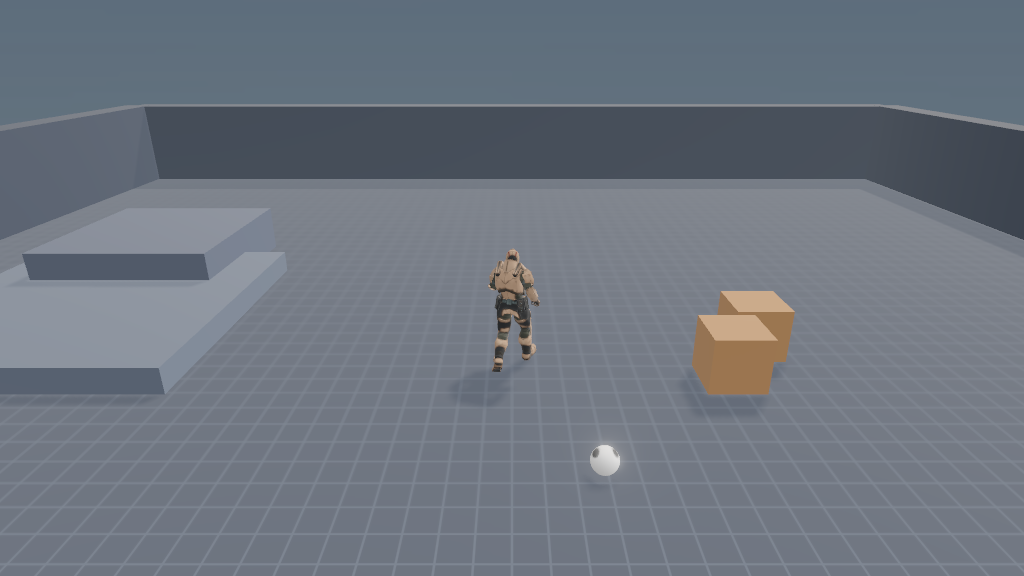
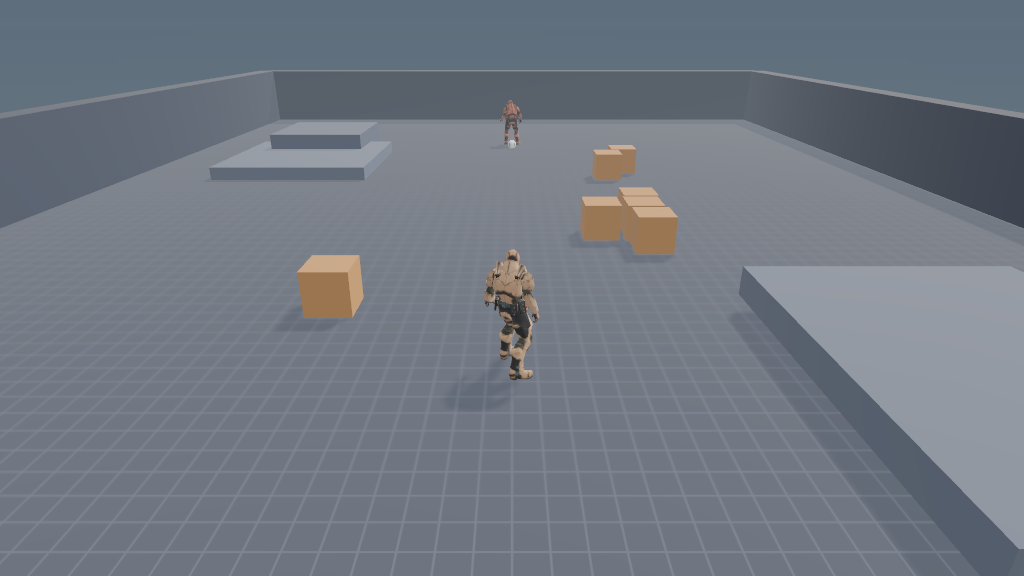
AI opponent: native steering behaviours contesting the ball (physics scene)
Add engine/steering.js — classic Reynolds behaviours (seek/flee/arrive/pursue/
wander) as dependency-free planar functions, plus toMoveInput() to drive a
CharacterController from a desired velocity. Mirrors GameBlocks' behaviour blocks.

Physique scene now has a red-tinted AI opponent (SkeletonUtils clone) that runs
the SAME CharacterController + a physics capsule: it intercepts the ball's
predicted position, and when it has it, shields/boots it away from the player.
Two kinematic capsules collide, so player and opponent bump each other.

Verified headless: AI closes to 0.5 m of the ball and displaces it ~9 m while
the idle player stays put; steering self-test 10/10.

- scripts/verify-steering.mjs; steering.js copied to starter + soldier-volley
  engines. reference/24-ai-steering.md; SKILL.md + README + showcase README +
  NOTES.md updated (bonus AI done; roadmap #3 interop noted in progress).

Claude-Session: https://claude.ai/code/session_01Wt9EADKvaju1kbTzmg8tYk

diff --git a/examples/showcase/src/scenes/Physics.js b/examples/showcase/src/scenes/Physics.js
@@ -1,10 +1,12 @@
 import * as THREE from 'three/webgpu';
 import { GLTFLoader } from 'three/addons/loaders/GLTFLoader.js';
+import { clone as skeletonClone } from 'three/addons/utils/SkeletonUtils.js';
 import { CharacterController } from '../engine/character-controller.js';
 import { ThirdPersonCamera } from '../engine/third-person-camera.js';
 import { Input } from '../engine/input.js';
 import { WORLD } from '../engine/world-basis.js';
 import { Physics } from '../engine/physics.js';
+import { pursue, seek, toMoveInput } from '../engine/steering.js';
 
 // Physics playground (roadmap #2) — real Rapier collisions. Drive the Soldier: he can't walk through the
 // walls/crates, climbs the ramp and steps, PUSHES the crates around, and kicks the ball (dynamic rigid
@@ -64,27 +66,54 @@ export class PhysicsScene {
     const btex = new THREE.CanvasTexture(bc); btex.colorSpace = THREE.SRGBColorSpace;
     const bmat = new THREE.MeshStandardNodeMaterial({ map: btex, roughness: 0.5 });
     const ballMesh = new THREE.Mesh(bgeo, bmat); ballMesh.castShadow = true; this.scene.add(ballMesh); this.disposables.push(bgeo, bmat, btex);
-    this.ballBody = this.phys.addDynamicBall([2, R, 1], R, { density: 22, restitution: 0.55 }); // ~football mass
+    this.ballBody = this.phys.addDynamicBall([0, R, 0], R, { density: 22, restitution: 0.55 }); // ~football mass, centre
     this.dyn.push({ mesh: ballMesh, body: this.ballBody });
 
-    // character
+    // player + AI opponent (cloned rig, red tint) — both are physics-collided capsule characters
     const gltf = await new GLTFLoader().loadAsync('Soldier.glb');
-    const model = gltf.scene; model.traverse((o) => { if (o.isMesh) { o.castShadow = true; o.frustumCulled = false; } });
+    const player = this._makeCharacter(gltf.scene, gltf.animations, [-8, 0, 0]);
+    this.ctrl = player.ctrl; this.model = player.model; this.ctrl.faceInstant(1, 0);
+    const opp = this._makeCharacter(skeletonClone(gltf.scene), gltf.animations, [8, 0, 0], 0xd23b3b);
+    this.aiCtrl = opp.ctrl; this.aiCtrl.runSpeed = 5.0; this.aiCtrl.faceInstant(-1, 0);
+    return true;
+  }
+
+  // build a physics-collided capsule character; optional `tint` recolours the rig (the AI opponent)
+  _makeCharacter(model, anims, start, tint) {
+    model.traverse((o) => {
+      if (!o.isMesh) return; o.castShadow = true; o.frustumCulled = false;
+      if (tint) { o.material = o.material.clone(); o.material.color = o.material.color.clone().lerp(new THREE.Color(tint), 0.55); this.disposables.push(o.material); }
+    });
     const box = new THREE.Box3().setFromObject(model); model.scale.setScalar(1.8 / box.getSize(new THREE.Vector3()).y);
-    const b2 = new THREE.Box3().setFromObject(model); const START = [-8, 0, 0];
-    model.position.set(START[0], -b2.min.y, START[2]); this.scene.add(model); this.model = model;
+    const b2 = new THREE.Box3().setFromObject(model); model.position.set(start[0], -b2.min.y, start[2]); this.scene.add(model);
     const mixer = new THREE.AnimationMixer(model);
-    const run = gltf.animations.find((a) => /run/i.test(a.name)), idle = gltf.animations.find((a) => /idle/i.test(a.name));
+    const run = anims.find((a) => /run/i.test(a.name)), idle = anims.find((a) => /idle/i.test(a.name));
     const bone = (re) => { let f = null; model.traverse((o) => { if (o.isBone && re.test(o.name) && !f) f = o; }); return f; };
     const legs = [
       { up: bone(/LeftUpLeg/i), knee: bone(/LeftLeg$/i), foot: bone(/LeftFoot/i) },
       { up: bone(/RightUpLeg/i), knee: bone(/RightLeg$/i), foot: bone(/RightFoot/i) },
     ];
-    this.char = this.phys.addCharacter(START, { radius: 0.32, height: 1.8 });
-    this.ctrl = new CharacterController(model, { mixer, runClip: run, idleClip: idle, legs, stride: 2.6, runSpeed: 5.5, forwardLocal: new THREE.Vector3(0, 0, -1) });
-    this.ctrl.collide = (dx, dy, dz) => this.char.move(dx, dy, dz);
-    this.ctrl.faceInstant(1, 0);
-    return true;
+    const char = this.phys.addCharacter(start, { radius: 0.32, height: 1.8 });
+    const ctrl = new CharacterController(model, { mixer, runClip: run, idleClip: idle, legs, stride: 2.6, runSpeed: 5.5, forwardLocal: new THREE.Vector3(0, 0, -1) });
+    ctrl.collide = (dx, dy, dz) => char.move(dx, dy, dz);
+    return { model, ctrl, char };
+  }
+
+  // opponent AI: chase the ball (intercept its predicted position); when on it, shield/boot it away from the player
+  _ai(dt) {
+    const ai = this.aiCtrl, p = this.ctrl, b = this.ballBody.translation(), bv = this.ballBody.linvel();
+    const aiPos = [ai.pos.x, ai.pos.z], ball = [b.x, b.z], player = [p.pos.x, p.pos.z];
+    const dBall = Math.hypot(ball[0] - aiPos[0], ball[1] - aiPos[1]);
+    let vel;
+    if (dBall > 1.0) { vel = pursue(aiPos, ball, [bv.x, bv.z], ai.runSpeed, 0.35); }        // intercept
+    else {                                                                                  // has it → clear away from player
+      const away = [ball[0] - player[0], ball[1] - player[1]]; const l = Math.hypot(away[0], away[1]) || 1; away[0] /= l; away[1] /= l;
+      vel = seek(aiPos, [ball[0] + away[0] * 2.5, ball[1] + away[1] * 2.5], ai.runSpeed);
+      this._kickCd = (this._kickCd || 0) - dt;
+      if (this._kickCd <= 0) { this.ballBody.setLinvel({ x: away[0] * 9, y: 3, z: away[1] * 9 }, true); this._kickCd = 1.4; }
+    }
+    const [mx, mz] = toMoveInput(vel, ai.runSpeed);
+    ai.setMoveWorld(mx, mz); ai.update(dt);
   }
 
   camera(cam, controls) {
@@ -116,6 +145,7 @@ export class PhysicsScene {
     if (near && this.input.pressed('shoot')) this.ballBody.setLinvel({ x: pf.x * 12, y: 4.5, z: pf.z * 12 }, true);
     else if (near && this.input.pressed('cross')) this.ballBody.setLinvel({ x: pf.x * 7, y: 2.6, z: pf.z * 7 }, true);
     this.input.endFrame();
+    if (this.aiCtrl) this._ai(dt);        // opponent contests the ball (queues its kinematic move too)
 
     this.phys.step();
     for (const { body, mesh } of this.dyn) this.phys.sync(body, mesh);

diff --git a/examples/showcase/src/engine/steering.js b/examples/showcase/src/engine/steering.js
@@ -1,0 +1,32 @@
+// Steering — classic Reynolds steering behaviours for simple, readable AI (chase, flee, intercept,
+// wander). Dependency-free: all vectors are planar [x, z], speeds/distances in world units. Feed the
+// returned desired velocity to a CharacterController via toMoveInput() → setMoveWorld(). Node-testable
+// (scripts/verify-steering.mjs). Mirrors the behaviour blocks in GameBlocks; pairs with reference/22–23.
+const sub = (a, b) => [a[0] - b[0], a[1] - b[1]];
+const add = (a, b) => [a[0] + b[0], a[1] + b[1]];
+const scale = (a, s) => [a[0] * s, a[1] * s];
+const len = (a) => Math.hypot(a[0], a[1]);
+const norm = (a) => { const l = len(a) || 1; return [a[0] / l, a[1] / l]; };
+
+/** Desired velocity straight at the target, at full speed. */
+export function seek(pos, target, maxSpeed) { return scale(norm(sub(target, pos)), maxSpeed); }
+/** Desired velocity directly away from the target. */
+export function flee(pos, target, maxSpeed) { return scale(norm(sub(pos, target)), maxSpeed); }
+/** Seek that eases down inside `slowRadius` so the agent stops on the target instead of orbiting it. */
+export function arrive(pos, target, maxSpeed, slowRadius = 2) {
+  const to = sub(target, pos), d = len(to); if (d < 1e-4) return [0, 0];
+  return scale(scale(to, 1 / d), d < slowRadius ? maxSpeed * d / slowRadius : maxSpeed);
+}
+/** Intercept a moving target by seeking its predicted position `predict` seconds ahead. */
+export function pursue(pos, targetPos, targetVel, maxSpeed, predict = 0.4) {
+  return seek(pos, add(targetPos, scale(targetVel, predict)), maxSpeed);
+}
+/** Meandering wander around a base heading; vary `t` per frame and by agent for variety. */
+export function wander(baseHeading, t, maxSpeed, jitter = 1) {
+  const a = baseHeading + Math.sin(t * jitter) * 0.9; return scale([Math.sin(a), Math.cos(a)], maxSpeed);
+}
+/** Convert a desired velocity into a CharacterController move input: unit direction × magnitude 0..1. */
+export function toMoveInput(vel, maxSpeed) {
+  const l = len(vel); if (l < 1e-4) return [0, 0];
+  const m = Math.min(1, l / maxSpeed); return [vel[0] / l * m, vel[1] / l * m];
+}

diff --git a/examples/soldier-volley/src/engine/steering.js b/examples/soldier-volley/src/engine/steering.js
@@ -1,0 +1,32 @@
+// Steering — classic Reynolds steering behaviours for simple, readable AI (chase, flee, intercept,
+// wander). Dependency-free: all vectors are planar [x, z], speeds/distances in world units. Feed the
+// returned desired velocity to a CharacterController via toMoveInput() → setMoveWorld(). Node-testable
+// (scripts/verify-steering.mjs). Mirrors the behaviour blocks in GameBlocks; pairs with reference/22–23.
+const sub = (a, b) => [a[0] - b[0], a[1] - b[1]];
+const add = (a, b) => [a[0] + b[0], a[1] + b[1]];
+const scale = (a, s) => [a[0] * s, a[1] * s];
+const len = (a) => Math.hypot(a[0], a[1]);
+const norm = (a) => { const l = len(a) || 1; return [a[0] / l, a[1] / l]; };
+
+/** Desired velocity straight at the target, at full speed. */
+export function seek(pos, target, maxSpeed) { return scale(norm(sub(target, pos)), maxSpeed); }
+/** Desired velocity directly away from the target. */
+export function flee(pos, target, maxSpeed) { return scale(norm(sub(pos, target)), maxSpeed); }
+/** Seek that eases down inside `slowRadius` so the agent stops on the target instead of orbiting it. */
+export function arrive(pos, target, maxSpeed, slowRadius = 2) {
+  const to = sub(target, pos), d = len(to); if (d < 1e-4) return [0, 0];
+  return scale(scale(to, 1 / d), d < slowRadius ? maxSpeed * d / slowRadius : maxSpeed);
+}
+/** Intercept a moving target by seeking its predicted position `predict` seconds ahead. */
+export function pursue(pos, targetPos, targetVel, maxSpeed, predict = 0.4) {
+  return seek(pos, add(targetPos, scale(targetVel, predict)), maxSpeed);
+}
+/** Meandering wander around a base heading; vary `t` per frame and by agent for variety. */
+export function wander(baseHeading, t, maxSpeed, jitter = 1) {
+  const a = baseHeading + Math.sin(t * jitter) * 0.9; return scale([Math.sin(a), Math.cos(a)], maxSpeed);
+}
+/** Convert a desired velocity into a CharacterController move input: unit direction × magnitude 0..1. */
+export function toMoveInput(vel, maxSpeed) {
+  const l = len(vel); if (l < 1e-4) return [0, 0];
+  const m = Math.min(1, l / maxSpeed); return [vel[0] / l * m, vel[1] / l * m];
+}

diff --git a/skills/threejs-aaa/assets/starter/src/engine/steering.js b/skills/threejs-aaa/assets/starter/src/engine/steering.js
@@ -1,0 +1,32 @@
+// Steering — classic Reynolds steering behaviours for simple, readable AI (chase, flee, intercept,
+// wander). Dependency-free: all vectors are planar [x, z], speeds/distances in world units. Feed the
+// returned desired velocity to a CharacterController via toMoveInput() → setMoveWorld(). Node-testable
+// (scripts/verify-steering.mjs). Mirrors the behaviour blocks in GameBlocks; pairs with reference/22–23.
+const sub = (a, b) => [a[0] - b[0], a[1] - b[1]];
+const add = (a, b) => [a[0] + b[0], a[1] + b[1]];
+const scale = (a, s) => [a[0] * s, a[1] * s];
+const len = (a) => Math.hypot(a[0], a[1]);
+const norm = (a) => { const l = len(a) || 1; return [a[0] / l, a[1] / l]; };
+
+/** Desired velocity straight at the target, at full speed. */
+export function seek(pos, target, maxSpeed) { return scale(norm(sub(target, pos)), maxSpeed); }
+/** Desired velocity directly away from the target. */
+export function flee(pos, target, maxSpeed) { return scale(norm(sub(pos, target)), maxSpeed); }
+/** Seek that eases down inside `slowRadius` so the agent stops on the target instead of orbiting it. */
+export function arrive(pos, target, maxSpeed, slowRadius = 2) {
+  const to = sub(target, pos), d = len(to); if (d < 1e-4) return [0, 0];
+  return scale(scale(to, 1 / d), d < slowRadius ? maxSpeed * d / slowRadius : maxSpeed);
+}
+/** Intercept a moving target by seeking its predicted position `predict` seconds ahead. */
+export function pursue(pos, targetPos, targetVel, maxSpeed, predict = 0.4) {
+  return seek(pos, add(targetPos, scale(targetVel, predict)), maxSpeed);
+}
+/** Meandering wander around a base heading; vary `t` per frame and by agent for variety. */
+export function wander(baseHeading, t, maxSpeed, jitter = 1) {
+  const a = baseHeading + Math.sin(t * jitter) * 0.9; return scale([Math.sin(a), Math.cos(a)], maxSpeed);
+}
+/** Convert a desired velocity into a CharacterController move input: unit direction × magnitude 0..1. */
+export function toMoveInput(vel, maxSpeed) {
+  const l = len(vel); if (l < 1e-4) return [0, 0];
+  const m = Math.min(1, l / maxSpeed); return [vel[0] / l * m, vel[1] / l * m];
+}

diff --git a/examples/showcase/index.html b/examples/showcase/index.html
@@ -67,9 +67,9 @@
         <div class="body">
           <h2>Physique — Rapier</h2>
           <p>Collisions réelles : le Soldat ne traverse pas les murs/caisses, monte la rampe et les
-             marches, <b>pousse</b> les caisses et <b>frappe</b> le ballon (corps rigides dynamiques).
-             Personnage capsule cinématique via le character controller de Rapier.</p>
-          <div class="tags"><span class="tag">Rapier</span><span class="tag">Collisions</span><span class="tag">Corps rigides</span><span class="tag">Character controller</span></div>
+             marches, <b>pousse</b> les caisses et <b>frappe</b> le ballon (corps rigides dynamiques). Un
+             <b>adversaire IA</b> (steering) te dispute le ballon. Capsule cinématique via Rapier.</p>
+          <div class="tags"><span class="tag">Rapier</span><span class="tag">Collisions</span><span class="tag">Corps rigides</span><span class="tag">IA · steering</span></div>
           <div class="open">Jouer →</div>
         </div>
       </a>

diff --git a/examples/showcase/physics.html b/examples/showcase/physics.html
@@ -27,7 +27,7 @@
       <b>Physique — Rapier</b><br>
       <kbd>WASD</kbd>/<kbd>ZQSD</kbd>/<kbd>↑↓←→</kbd> courir · <b>souris</b> regarder · <b>molette</b> zoom<br>
       <kbd>Shift</kbd> sprint · <kbd>J</kbd> saut · <kbd>Espace</kbd> frapper le ballon · <kbd>E</kbd> pousser doux<br>
-      Pousse les caisses, monte la rampe, tape dans le ballon. 🎮 manette &amp; 📱 tactile OK.
+      Un <b style="color:#e57373">adversaire IA</b> te dispute le ballon. Pousse les caisses, monte la rampe. 🎮📱 OK.
     </div>
     <div id="loading">CHARGEMENT DU MOTEUR PHYSIQUE…</div>
     <script type="module" src="/src/entry-physics.js"></script>

diff --git a/skills/threejs-aaa/reference/24-ai-steering.md b/skills/threejs-aaa/reference/24-ai-steering.md
@@ -1,0 +1,47 @@
+# AI opponents — steering behaviours
+
+Simple, readable NPC/opponent movement without a planner: `engine/steering.js` provides the classic
+Reynolds behaviours (seek / flee / arrive / pursue / wander) as pure functions on planar `[x, z]` vectors.
+Compose them into a desired velocity, convert to a controller input, and drive the SAME
+`CharacterController` you use for the player — so the AI gets correct facing, no foot-skate, and (with
+`.collide`) physics collisions for free. Dependency-free → node-testable (`scripts/verify-steering.mjs`).
+Mirrors the behaviour blocks in [GameBlocks](https://github.com/xt4d/GameBlocks); pairs with reference/22–23.
+
+## Usage — an opponent that contests the ball
+
+```js
+import { pursue, seek, toMoveInput } from './engine/steering.js';
+
+// build the opponent exactly like the player (own CharacterController + physics character), then per frame:
+const aiPos = [ai.pos.x, ai.pos.z], ball = [b.x, b.z], player = [p.pos.x, p.pos.z];
+let vel;
+if (dist(aiPos, ball) > 1.0) {
+  vel = pursue(aiPos, ball, ballVelXZ, ai.runSpeed, 0.35);        // intercept the ball's PREDICTED position
+} else {
+  const away = normalize(sub(ball, player));                      // has the ball → shield/clear it from the player
+  vel = seek(aiPos, add(ball, scale(away, 2.5)), ai.runSpeed);
+  if (kickReady) ball.setLinvel({ x: away[0]*9, y: 3, z: away[1]*9 }, true);
+}
+const [mx, mz] = toMoveInput(vel, ai.runSpeed);                   // desired velocity → move input (dir × 0..1)
+ai.setMoveWorld(mx, mz); ai.update(dt);                           // same controller as the player
+```
+
+Playable demo: `examples/showcase` → **Physique** (a red-tinted opponent chases and boots the ball away;
+both are physics capsules, so they also bump each other). Verified headless: the AI closes to 0.5 m of the
+ball and displaces it ~9 m while the idle player doesn't move.
+
+## The behaviours
+- **seek(pos, target, maxSpeed)** — full-speed straight at a point.
+- **flee(pos, target, maxSpeed)** — full-speed away (evade).
+- **arrive(pos, target, maxSpeed, slowRadius)** — seek that eases to a stop on the target (no orbiting).
+- **pursue(pos, targetPos, targetVel, maxSpeed, predict)** — seek the target's future position (intercept).
+- **wander(baseHeading, t, maxSpeed, jitter)** — meandering idle patrol.
+- **toMoveInput(vel, maxSpeed)** — desired velocity → `CharacterController.setMoveWorld` input.
+
+## Notes
+- **Order per frame** with physics: drive the player, then each AI (`ai.update(dt)` queues its kinematic
+  move), then a single `phys.step()`, then sync meshes. Two kinematic capsules collide, so opponents block
+  each other and the player.
+- Blend behaviours by summing their velocities (e.g. `pursue(ball) + flee(nearestFoe)*0.5`), then clamp with
+  `toMoveInput`. For routes/obstacles, layer waypoints or a grid path on top (a natural next block).
+- Give opponents a slightly lower `runSpeed` (or reaction delay) so the player can win.

diff --git a/README.md b/README.md
@@ -31,6 +31,7 @@ threejs-aaa/ (the skill)
 │   ├── 21-locomotion-no-footskate.md  moving characters that don't slide: cadence-sync + foot-lock IK + follow camera
 │   ├── 22-character-controller.md  controls: input→facing (no moonwalk) + run/idle + no-slide, camera-relative, gamepad
 │   ├── 23-physics-rapier.md    physics & collisions (Rapier): kinematic character, static/dynamic bodies, kick/push
+│   ├── 24-ai-steering.md       AI opponents: steering (seek/flee/arrive/pursue/wander) driving the CharacterController
 │   ├── 15-interaction-alignment.md  character↔object interaction + correctness verification
 │   ├── 18-scene-correctness.md  REQUIRED spatial rules: door-in-wall, no-clip, rests-on, ball-at-foot
 │   ├── 19-correctness-catalogue.md  exhaustiveness generator + full rule catalogue by relationship
@@ -47,6 +48,7 @@ threejs-aaa/ (the skill)
 │   ├── verify-temporal.mjs    validate animation-time correctness (skate/detach/pops/loop/phase)
 │   ├── verify-locomotion.mjs  self-test the no-foot-skate cadence math (matchCadence/estimateStride)
 │   ├── verify-worldbasis.mjs  self-test the gameplay-direction ↔ world-axis transforms (facing/heading/no-moonwalk)
+│   ├── verify-steering.mjs    self-test the AI steering behaviours (seek/flee/arrive/pursue/wander)
 │   ├── capture.mjs           headless screenshot + perf snapshot (the visual-QA loop)
 │   └── gen-asset.mjs         (optional/paid) AI text/image-to-3D → game-ready GLB (Meshy)
 └── assets/starter/           a complete, runnable WebGPU + IBL + post-processing project
@@ -95,6 +97,10 @@ examples/
   snap-to-ground, pushes dynamic bodies) that plugs into `CharacterController.collide`. The character
   can't walk through walls, climbs ramps/steps, pushes crates, and kicks the ball. Playable in the live
   gallery (**Physique**). Verified headless: walls block, crates displace, kick launches ~12 m/s.
+- **AI opponents (native, steering)** — `engine/steering.js` (seek/flee/arrive/pursue/wander) drives NPCs
+  through the *same* `CharacterController` as the player, so they face where they move, don't foot-skate,
+  and collide via physics. The **Physique** demo has an AI opponent that intercepts and boots the ball
+  away; verified headless (closes to 0.5 m, displaces the ball ~9 m). Behaviours self-test with zero deps.
 - **Scene correctness enforcement (the skill's job, not the user's)** — a tested spatial validator
   that catches placement bugs the way an AAA reviewer would: a door must sit in the wall opening, a
   chair must face the desk, a seated character's hips on the seat, furniture must not clip walls, a

diff --git a/skills/threejs-aaa/SKILL.md b/skills/threejs-aaa/SKILL.md
@@ -43,6 +43,7 @@ post-processing, and the Mixamo → glTF character pipeline.
 | **Locomotion (REQUIRED for moving characters): no foot-skate — cadence-sync + foot-lock IK + follow camera** | [reference/21-locomotion-no-footskate.md](reference/21-locomotion-no-footskate.md) |
 | **Character controller (controls): input→facing (no moonwalk)+run/idle+no-slide, camera-relative, gamepad** | [reference/22-character-controller.md](reference/22-character-controller.md) |
 | **Physics & collisions (Rapier): walls/crates/steps, kinematic character, dynamic bodies, kick/push** | [reference/23-physics-rapier.md](reference/23-physics-rapier.md) |
+| **AI opponents: steering (seek/flee/arrive/pursue/wander) driving the same CharacterController** | [reference/24-ai-steering.md](reference/24-ai-steering.md) |
 | Character↔object interaction + correctness verification (orientation, reach…) | [reference/15-interaction-alignment.md](reference/15-interaction-alignment.md) |
 | **Scene correctness (REQUIRED): door-in-wall, chair-faces-desk, no-clip, rests-on, ball-at-foot** | [reference/18-scene-correctness.md](reference/18-scene-correctness.md) |
 | **Correctness catalogue + how to reach exhaustiveness (the rule generator)** | [reference/19-correctness-catalogue.md](reference/19-correctness-catalogue.md) |
@@ -121,6 +122,14 @@ resolve regardless of install location. Each prints `--help`.
   → **Contrôles**. See `reference/22`:
   ```bash
   node ${CLAUDE_SKILL_DIR}/scripts/verify-worldbasis.mjs   # self-test the direction transforms + moonwalk case
+  ```
+- **Real collisions + AI opponents** — `engine/physics.js` wraps Rapier (ground, static/dynamic bodies, a
+  kinematic capsule character that can't clip walls, climbs steps, pushes crates, kicks the ball) via
+  `CharacterController.collide`; `engine/steering.js` (seek/flee/arrive/pursue/wander) drives NPCs through
+  the *same* controller. Playable: `examples/showcase` → **Physique** (an AI opponent contests the ball).
+  See `reference/23`–`24`:
+  ```bash
+  node ${CLAUDE_SKILL_DIR}/scripts/verify-steering.mjs     # self-test the steering behaviours
   ```
 - **Capture the render + see it** — screenshot a build in headless Chromium and read a perf
   snapshot, then Read the PNG to critique it against the AAA rubric (`reference/16`). Free

diff --git a/NOTES.md b/NOTES.md
@@ -52,13 +52,17 @@ Issues de la veille GameBlocks :
    snap-to-ground, pousse les corps dynamiques) branché sur `CharacterController.collide`. Scène jouable
    **Physique**. Vérifié headless : murs bloquants (x≤17.3), caisses poussées (0.44 m), frappe ~12 m/s.
 3. **Positionnement complémentaire / interop** — notre couche *rendu AAA + validation + locomotion* par
-   dessus des blocs gameplay façon GameBlocks. Viser deux skills installables ensemble.
+   dessus des blocs gameplay façon GameBlocks. Viser deux skills installables ensemble. *(en cours : les
+   refs 21–24 citent GameBlocks et reprennent ses patterns — WorldBasis, behaviour/steering — pour rester
+   alignés/interopérables ; reste à écrire un guide d'interop explicite.)*
 
 Autres idées déjà évoquées :
 4. Blend d'animations **Idle → Walk → Run** avec machine à états (au lieu du blend binaire actuel).
 5. **Scattering GPU / herbe** à plus grande échelle, **LOD / streaming** (web-Nanite), caustiques d'eau.
 6. **Systèmes de particules** (étincelles, impacts, fumée).
-7. IA basique (pathfinding, steering) pour un adversaire dans la scène jouable.
+7. ✅ **IA adversaire (steering)** *(fait)* — `engine/steering.js` (seek/flee/arrive/pursue/wander),
+   adversaire qui intercepte et dégage le ballon dans la scène **Physique**, piloté par le même
+   `CharacterController`. Self-test `scripts/verify-steering.mjs` (10/10). Reste : pathfinding sur grille.
 
 ---
 

diff --git a/examples/showcase/README.md b/examples/showcase/README.md
@@ -9,7 +9,8 @@ Each card opens a live, interactive preview. **Live:** https://threejs-aaa-showc
   foot-skate, dribbles the ball, Space shoots along its facing, Shift crosses, third-person follow camera.
 - **Physique — jouable** (`physics.html`) — real Rapier collisions: the Soldier can't pass the walls,
   climbs the ramp/steps, pushes crates, and kicks the ball (dynamic bodies). Kinematic capsule character
-  via `engine/physics.js` wired into `CharacterController.collide`.
+  via `engine/physics.js` wired into `CharacterController.collide`. A red-tinted **AI opponent**
+  (`engine/steering.js`) contests the ball, driven through the same controller.
 - **Soldier Volley** (`volley.html`) — the cinematic done right: a **dribbler** carries the ball down the
   wing and **crosses**, a **striker** (cloned rig) runs on and **volleys** into the net. Each player faces
   its run; validation on `window.__volleyReport` asserts no-moonwalk + shots-toward-target.
